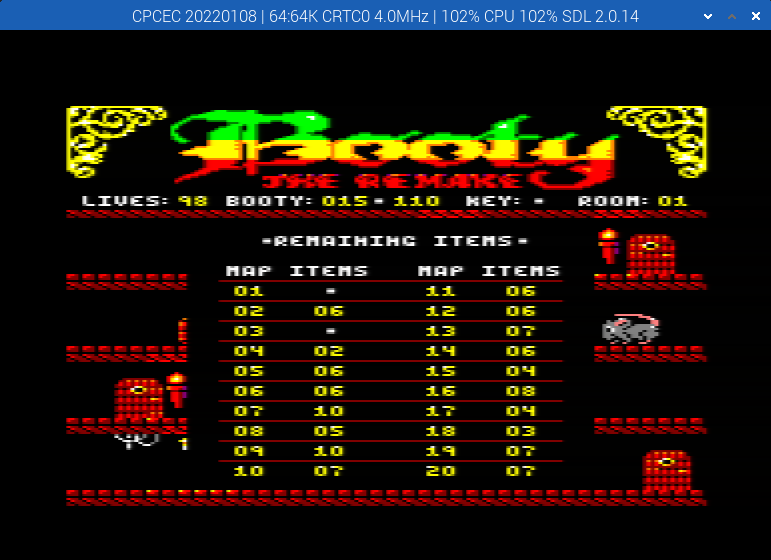
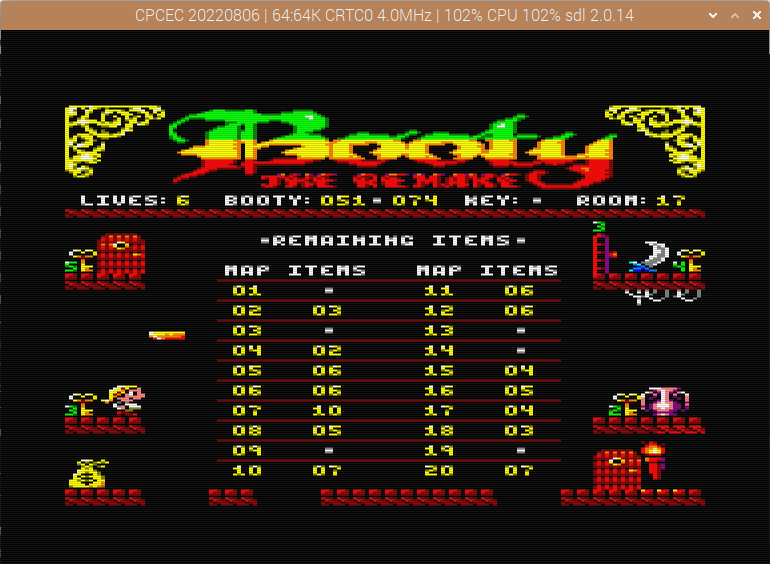
-

Changed region(s): [[0.0623, 0.1821, 0.9351, 0.9107], [0.0, 0.0, 1.0, 0.0911], [0.9974, 0.1518, 1.0, 0.9714]]

diff --git a/src/main.c b/src/main.c
@@ -2224,7 +2224,7 @@ void InitGame() {
     bomb.timer = 0; // reset bomb
 
 	// player
-    spr[0].lives = 99;
+    spr[0].lives = 9;
 	spr[0].x = spr[0].px = playerXIni = 48;
 	spr[0].y = spr[0].py = playerYIni = F1; // floor 1 height
 	spr[0].dir = D_left;
